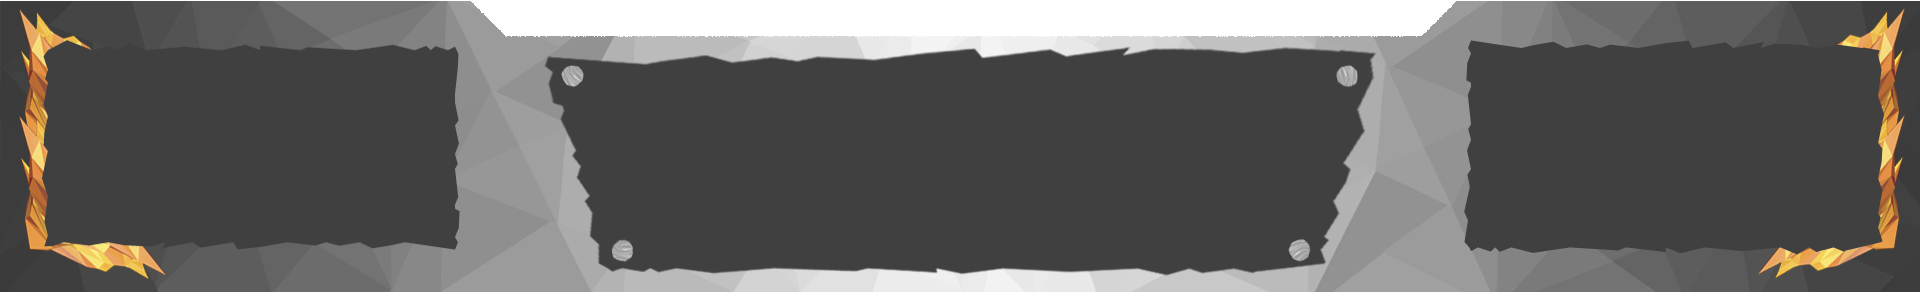
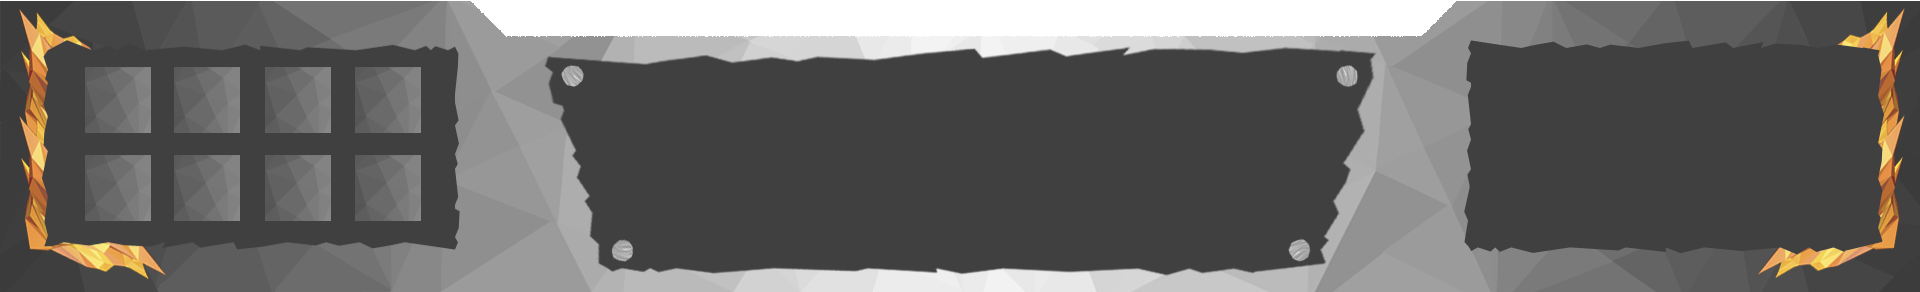
niebla mas bonita

Changed region(s): [[0.0312, 0.524, 0.2188, 0.7705], [0.0312, 0.2158, 0.2188, 0.4623]]

diff --git a/Assets/Scripts/Army/ArmyManager.cs b/Assets/Scripts/Army/ArmyManager.cs
@@ -190,17 +190,22 @@ public class ArmyManager : MonoBehaviour {
         for (int i = 0; i < units[0].Count;++i )
         {
             float radius = units[0][i].getDetectionRadius();
+            float radius2 = units[0][i].getDetectionRadius2();
             Vector3 position = units[0][i].getPosition();
             int xMin = (int)((position.x - radius) / map.fogQuadScale);
             int zMin = (int)((position.z - radius) / map.fogQuadScale);
 
             int xMax = (int)((position.x + radius) / map.fogQuadScale);
             int zMax = (int)((position.z + radius) / map.fogQuadScale);
+            Vector3 worldPosition = Vector3.zero;
+            worldPosition.y = position.y;
             for (int x = xMin; x < xMax; ++x)
             {
                 for (int z = zMin; z < zMax; ++z)
                 {
-                    if (x < map.m_xFogCell && z < map.m_zFogCell)
+                    worldPosition.x = x * map.fogQuadScale;
+                    worldPosition.z = z * map.fogQuadScale;
+                    if ((worldPosition-position).sqrMagnitude < radius2 && x < map.m_xFogCell && z < map.m_zFogCell)
                     {
                         map.m_visited[x][z] = true;
                         map.m_visiting[x][z] = true;

diff --git a/Assets/Scripts/Army/Unit.cs b/Assets/Scripts/Army/Unit.cs
@@ -507,6 +507,10 @@ public class Unit : MonoBehaviour {
     {
         return m_enemyDetectionRadius;
     }
+    public float getDetectionRadius2()
+    {
+        return m_enemyDetectionRadius2;
+    }
     void OnDrawGizmosSelected()
     {
         Gizmos.color = Color.blue;
